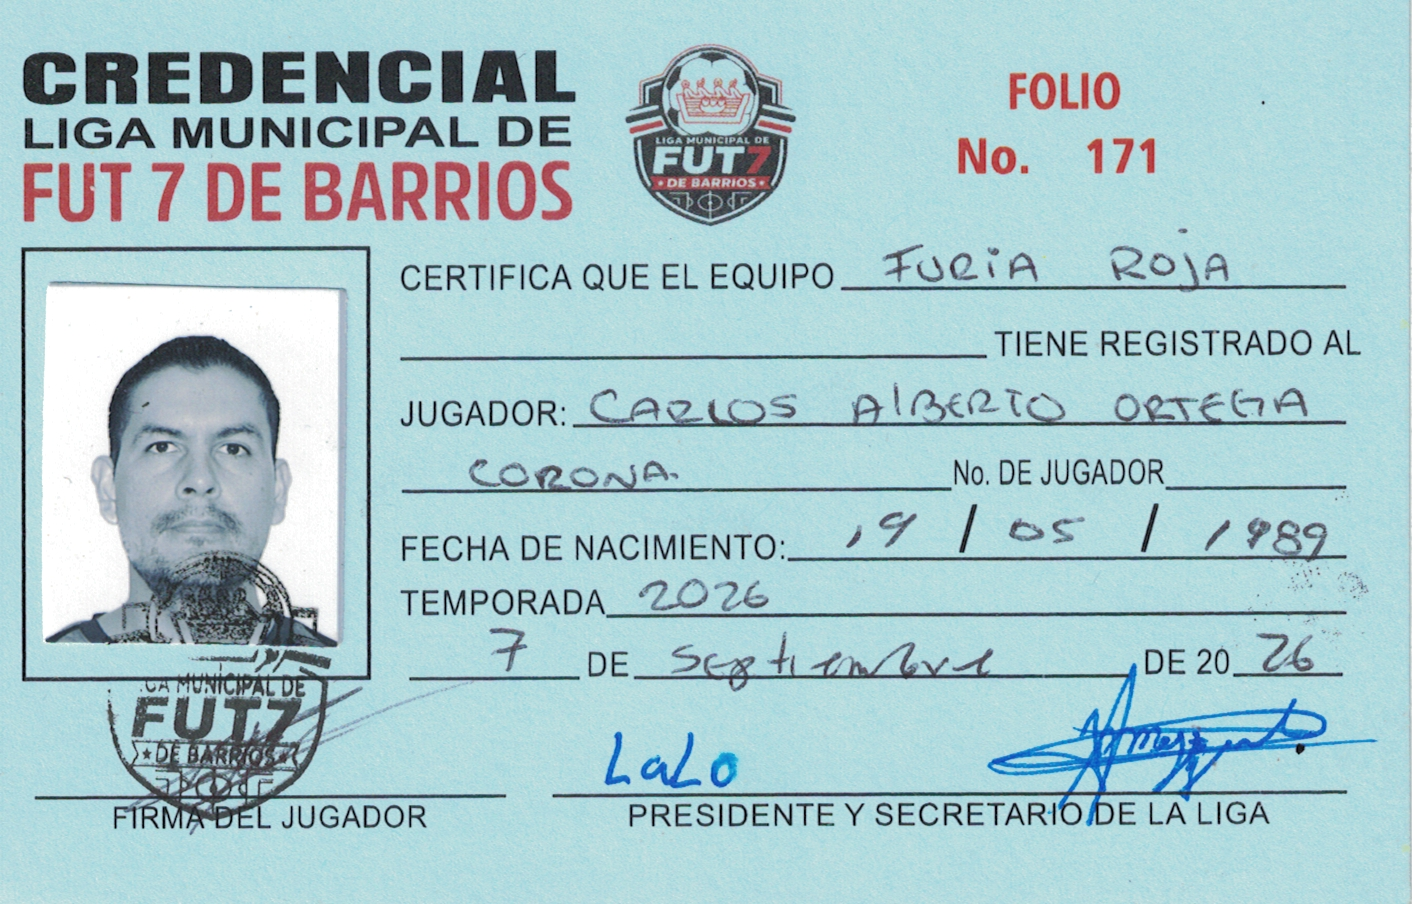
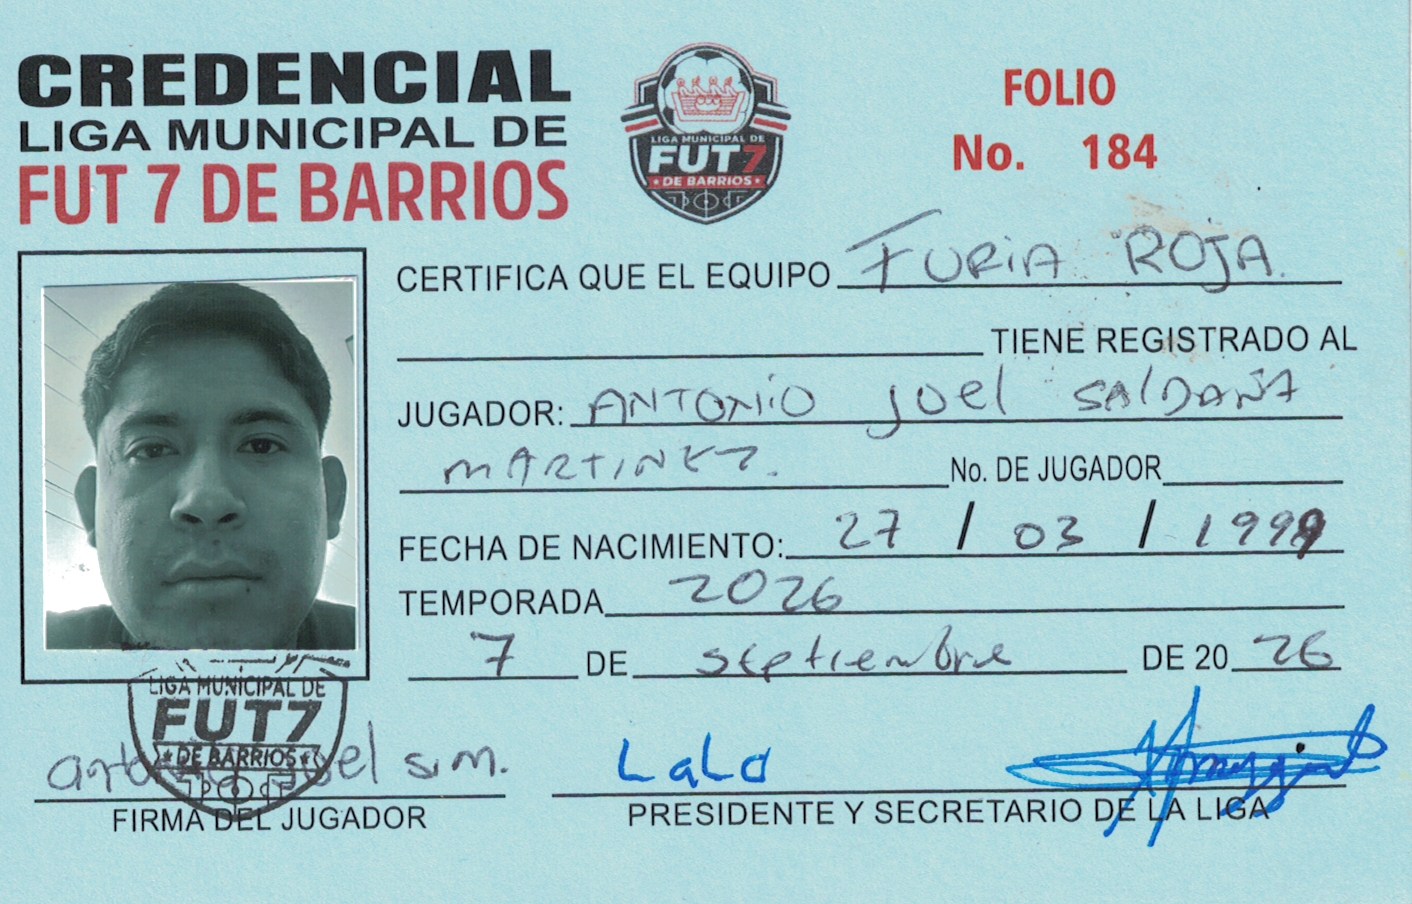
credenciales

diff --git a/equipo.js b/equipo.js
@@ -59,8 +59,8 @@ document.addEventListener("DOMContentLoaded", () => {
     const detallesPorEquipo = {
         "0": { // Furia Roja
             plantilla: [
-                { num: 171, pos: "27 años", nombre: "Antonio Joel Saldaña Martinez",        cat: "3", amarilla: "-", roja: "-" },
-                { num: 184, pos: "37 años", nombre: "Carlos Alberto Ortega Corona",         cat: "6", amarilla: "-", roja: "-" },
+                { num: 184, pos: "27 años", nombre: "Antonio Joel Saldaña Martinez",        cat: "3", amarilla: "-", roja: "-" },
+                { num: 171, pos: "37 años", nombre: "Carlos Alberto Ortega Corona",         cat: "6", amarilla: "-", roja: "-" },
                 { num: 179, pos: "30 años", nombre: "Carlos Alonso Aguilar Yañez",          cat: "3", amarilla: "-", roja: "-" },
                 { num: 172, pos: "25 años", nombre: "Edgar Rigoberto Estrada Llamas",       cat: "7", amarilla: "-", roja: "-" },
                 { num: 173, pos: "29 años", nombre: "Francisco Javier Saldaña Martínez",    cat: "5", amarilla: "-", roja: "-" },
